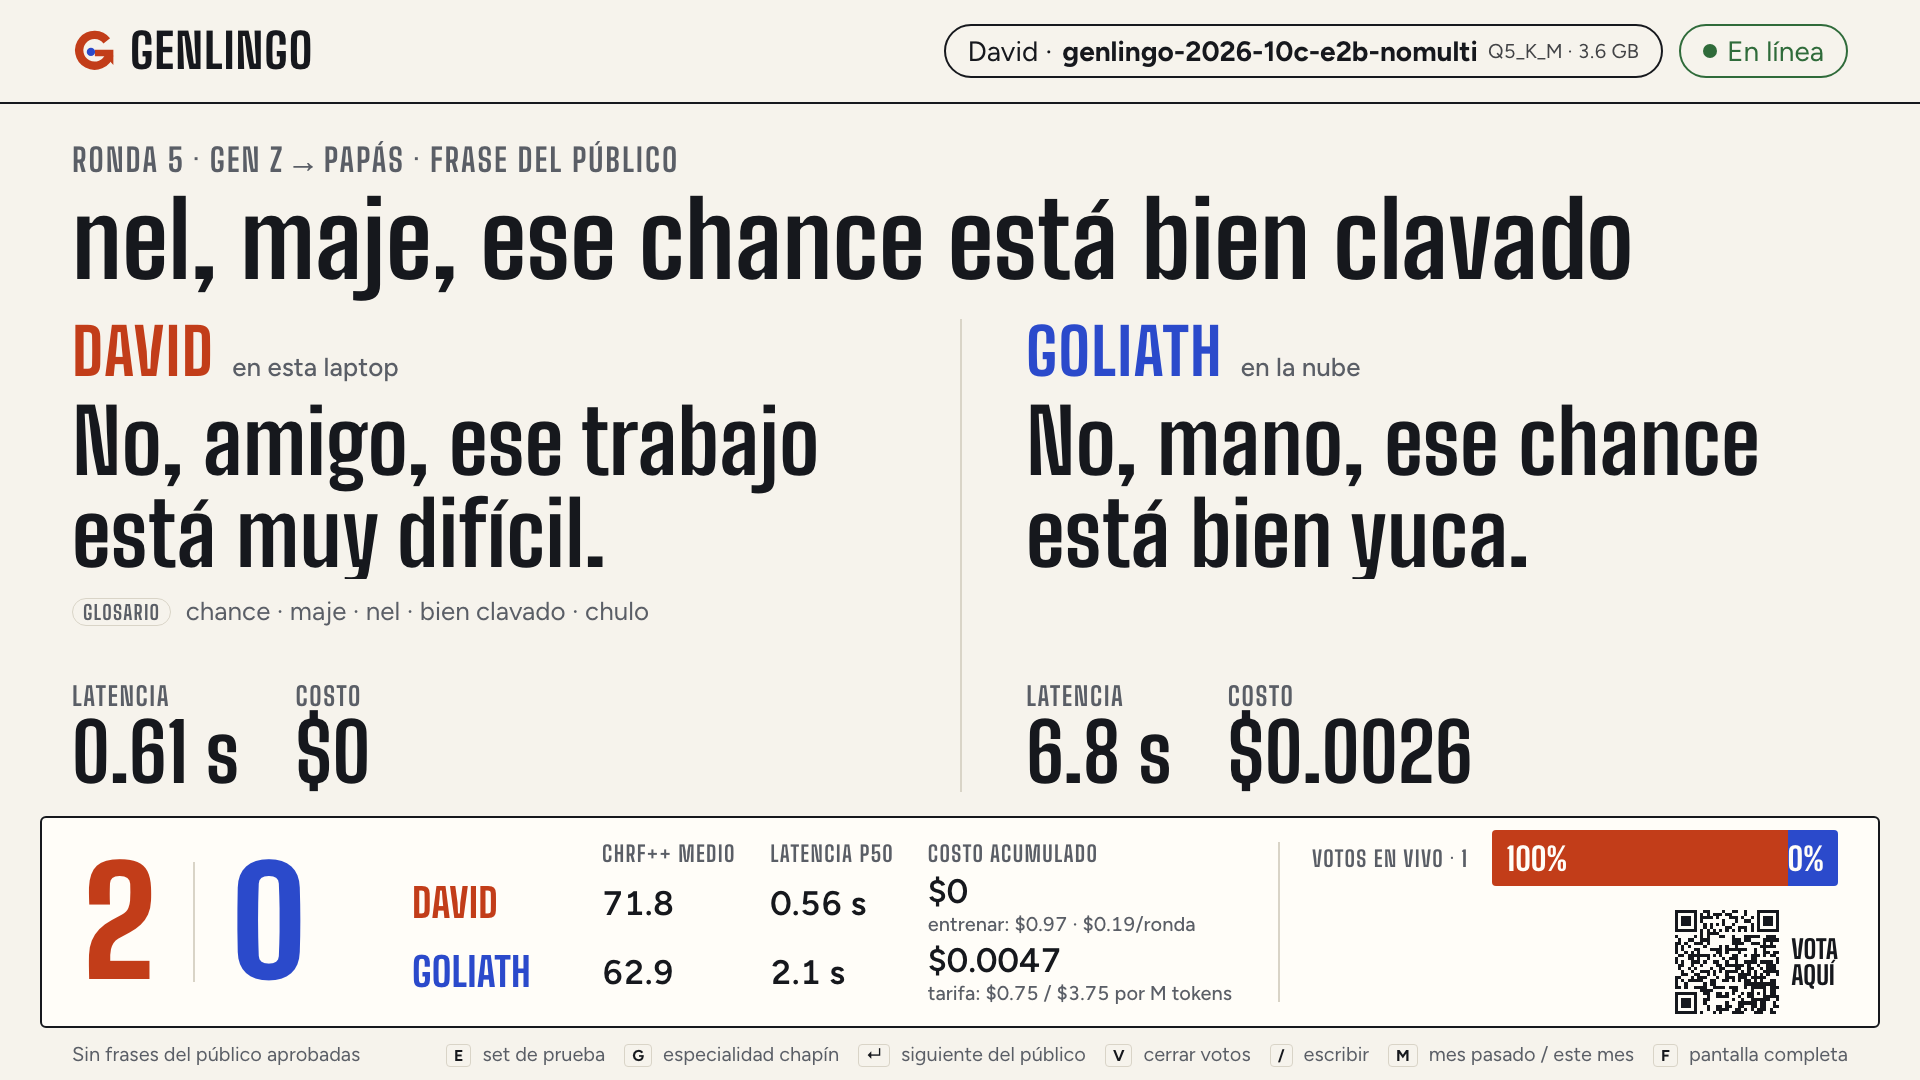
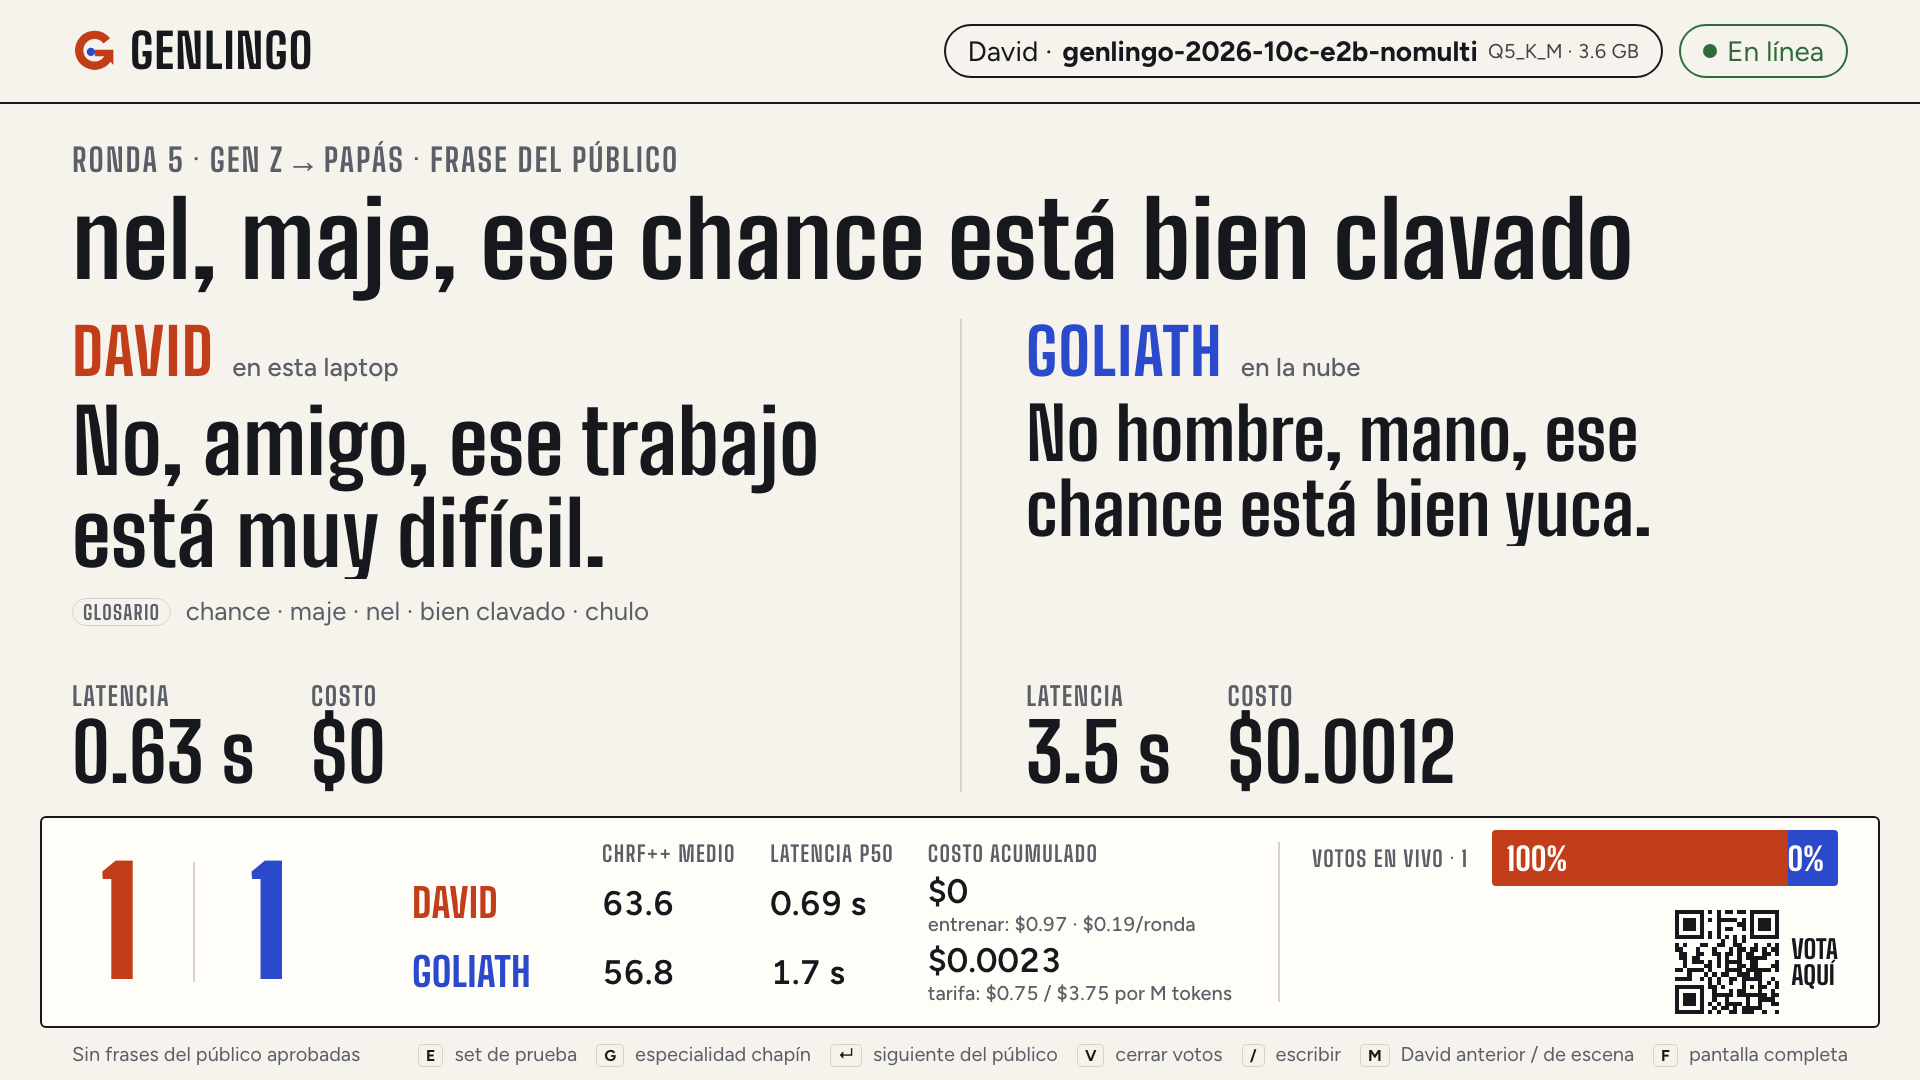
docs/demo: retake all nine screenshots with the stage David and the M-key copy; presenter: FitText no longer leaves a clipped last line

diff --git a/web/components/presenter/PresenterApp.tsx b/web/components/presenter/PresenterApp.tsx
@@ -329,13 +329,19 @@ function FitText({ text, start, min = 36, className }: { text: string; start: nu
   useLayoutEffect(() => {
     const el = ref.current;
     if (!el) return;
-    let size = start;
-    el.style.fontSize = `${size}px`;
-    // Display glyphs poke a little above/below a tight line box; only a hidden line counts as overflow.
-    while (size > min && el.scrollHeight - el.clientHeight > size * 0.4) {
-      size -= 4;
+    const fit = () => {
+      let size = start;
       el.style.fontSize = `${size}px`;
-    }
+      // Display glyphs poke a little above/below a tight line box (about a tenth of the size); more
+      // than that is a line cut off at the bottom.
+      while (size > min && el.scrollHeight - el.clientHeight > size * 0.15) {
+        size -= 4;
+        el.style.fontSize = `${size}px`;
+      }
+    };
+    fit();
+    // The display font may arrive after the first measurement and wrap differently.
+    document.fonts?.ready.then(fit);
   }, [text, start, min]);
   return (
     <p ref={ref} className={className} style={{ fontSize: start }}>

diff --git a/docs/DECISIONES.en.md b/docs/DECISIONES.en.md
@@ -146,7 +146,7 @@ David's ten worst losses and the per-country and per-direction breakdowns are in
 | `M` key: the previous David | Wi-Fi off |
 | --- | --- |
 | ![The previous David (M key)](demo/08-david-anterior.png) | ![No internet: Goliath offline, David keeps going](demo/09-sin-internet.png) |
-| `M` key: the previous David (`genlingo-2026-10-e2b-q5_k_m`) against Goliath on the same phrase ("no manches, la peli estuvo bien mid y me dio cringe"); the scoreboard counts only his rounds. | No network: Goliath shows as "sin conexión" (offline) and the on-stage David answers in 0.81 s ("ese bolo anda chupando desde la tarde…" → "Ese muchacho anda borrachísimo desde la tarde…", that guy has been very drunk since the afternoon). |
+| `M` key: the previous David (`genlingo-2026-10-e2b-q5_k_m`) against Goliath on the same phrase ("no manches, la peli estuvo bien mid y me dio cringe"); the scoreboard counts only his rounds. | No network: Goliath shows as "sin conexión" (offline) and the on-stage David answers in 0.85 s ("ese bolo anda chupando desde la tarde…" → "Ese muchacho anda borrachísimo desde la tarde…", that guy has been very drunk since the afternoon). |
 
 ## Training cost per run
 

diff --git a/docs/DECISIONES.md b/docs/DECISIONES.md
@@ -146,7 +146,7 @@ Las diez peores derrotas de David y los cortes por país y dirección están en 
 | Tecla `M`: el David anterior | Wi-Fi apagado |
 | --- | --- |
 | ![El David anterior (tecla M)](demo/08-david-anterior.png) | ![Sin internet: Goliath sin conexión, David sigue](demo/09-sin-internet.png) |
-| Tecla `M`: el David anterior (`genlingo-2026-10-e2b-q5_k_m`) contra Goliath con la misma frase («no manches, la peli estuvo bien mid y me dio cringe»); el marcador cuenta solo sus rondas. | Sin red: Goliath aparece «sin conexión» y el David de escena responde en 0.81 s («ese bolo anda chupando desde la tarde…» → «Ese muchacho anda borrachísimo desde la tarde…»). |
+| Tecla `M`: el David anterior (`genlingo-2026-10-e2b-q5_k_m`) contra Goliath con la misma frase («no manches, la peli estuvo bien mid y me dio cringe»); el marcador cuenta solo sus rondas. | Sin red: Goliath aparece «sin conexión» y el David de escena responde en 0.85 s («ese bolo anda chupando desde la tarde…» → «Ese muchacho anda borrachísimo desde la tarde…»). |
 
 ## Costo de entrenamiento por ejecución
 

diff --git a/docs/DEMO.md b/docs/DEMO.md
@@ -84,7 +84,7 @@ Qué onda, maje, no traigo pisto para el chinique, estoy bien pisado
 Enter
 ```
 
-> David responde en menos de un segundo y gratis; Goliath tarda varios segundos y cobra por cada frase.
+> David responde en menos de un segundo y gratis; Goliath depende de la red y cobra por cada frase.
 
 ### 5 · Frase escrita, papás → Gen Z (1 min)
 
@@ -121,7 +121,7 @@ V
 
 `Enter` lanza la ronda con la frase del público, el público vota desde el teléfono y `V` cierra la votación.
 
-> La frase llegó del teléfono a la pantalla en menos de 3 segundos; el voto decide quién ganó.
+> La frase llegó del teléfono a la pantalla en segundos; el voto decide quién ganó.
 
 ### 7 · El David anterior (1 min)
 
